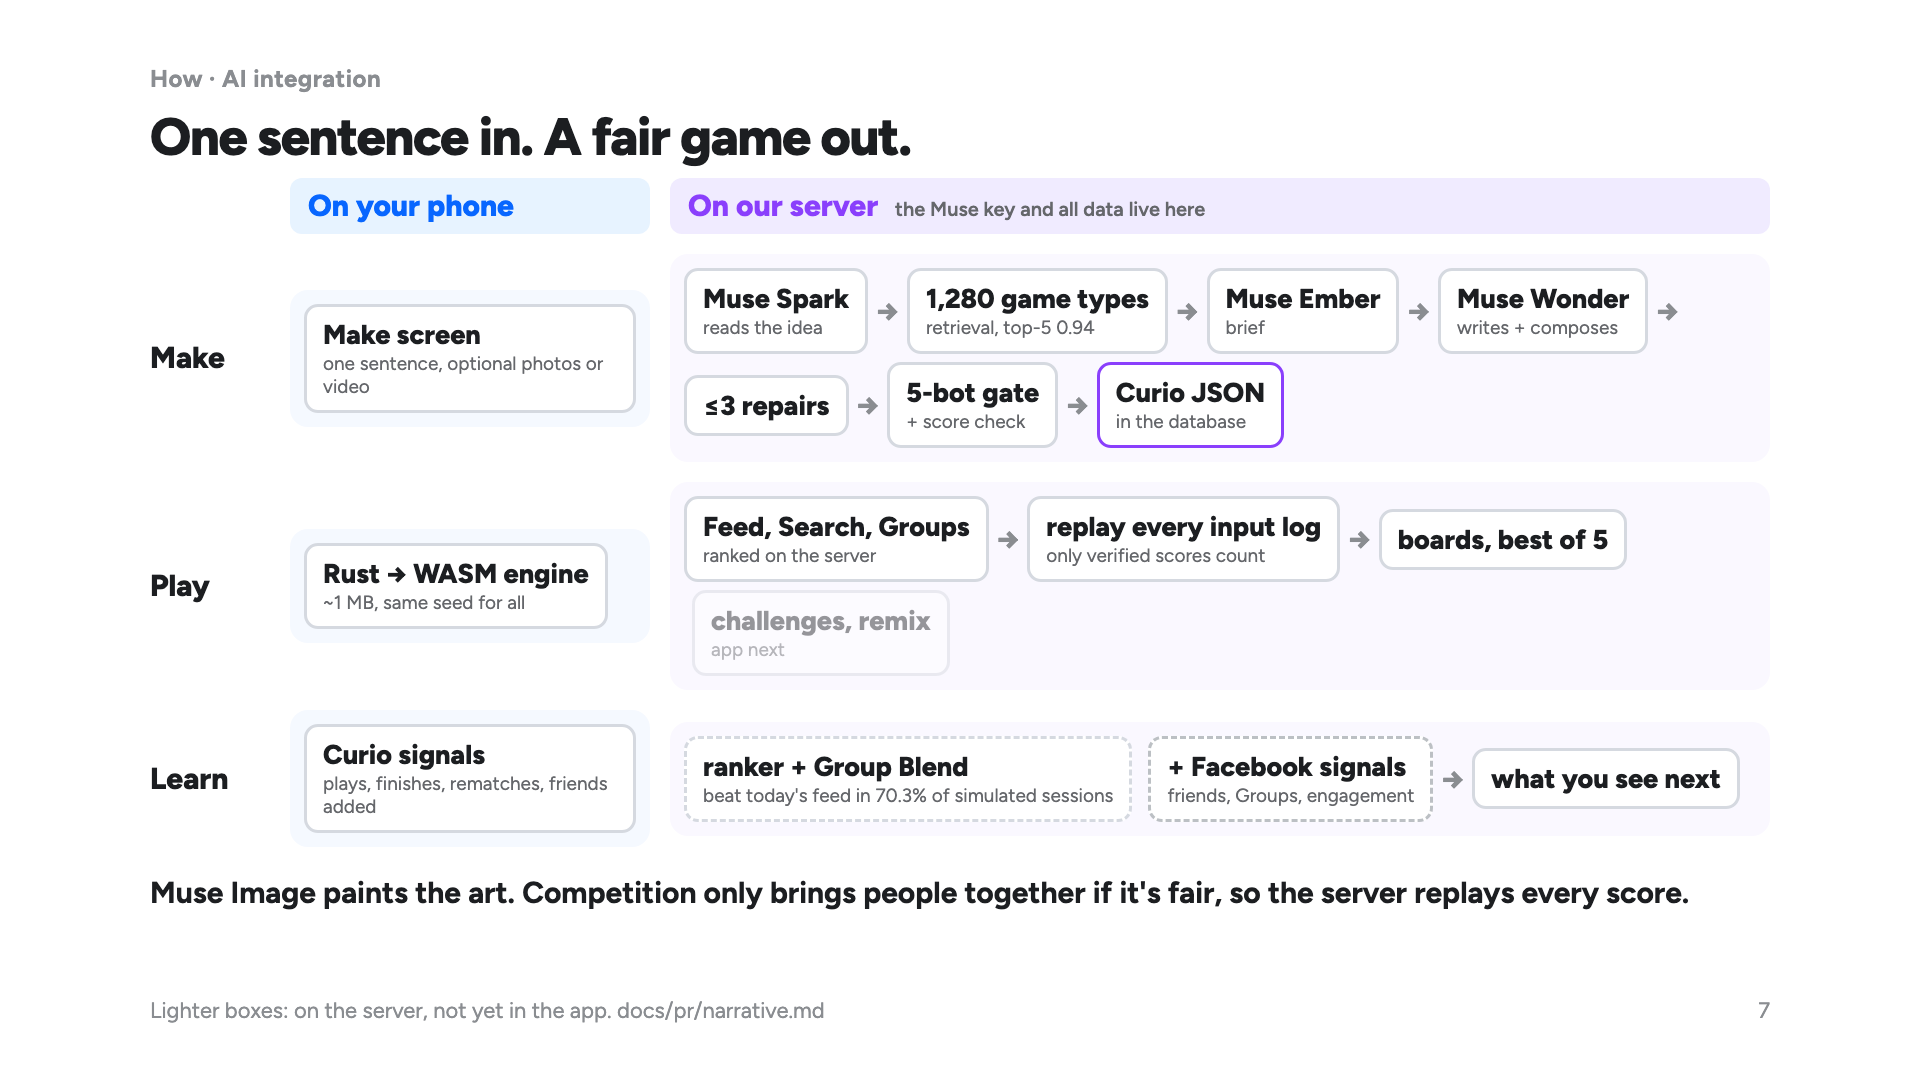
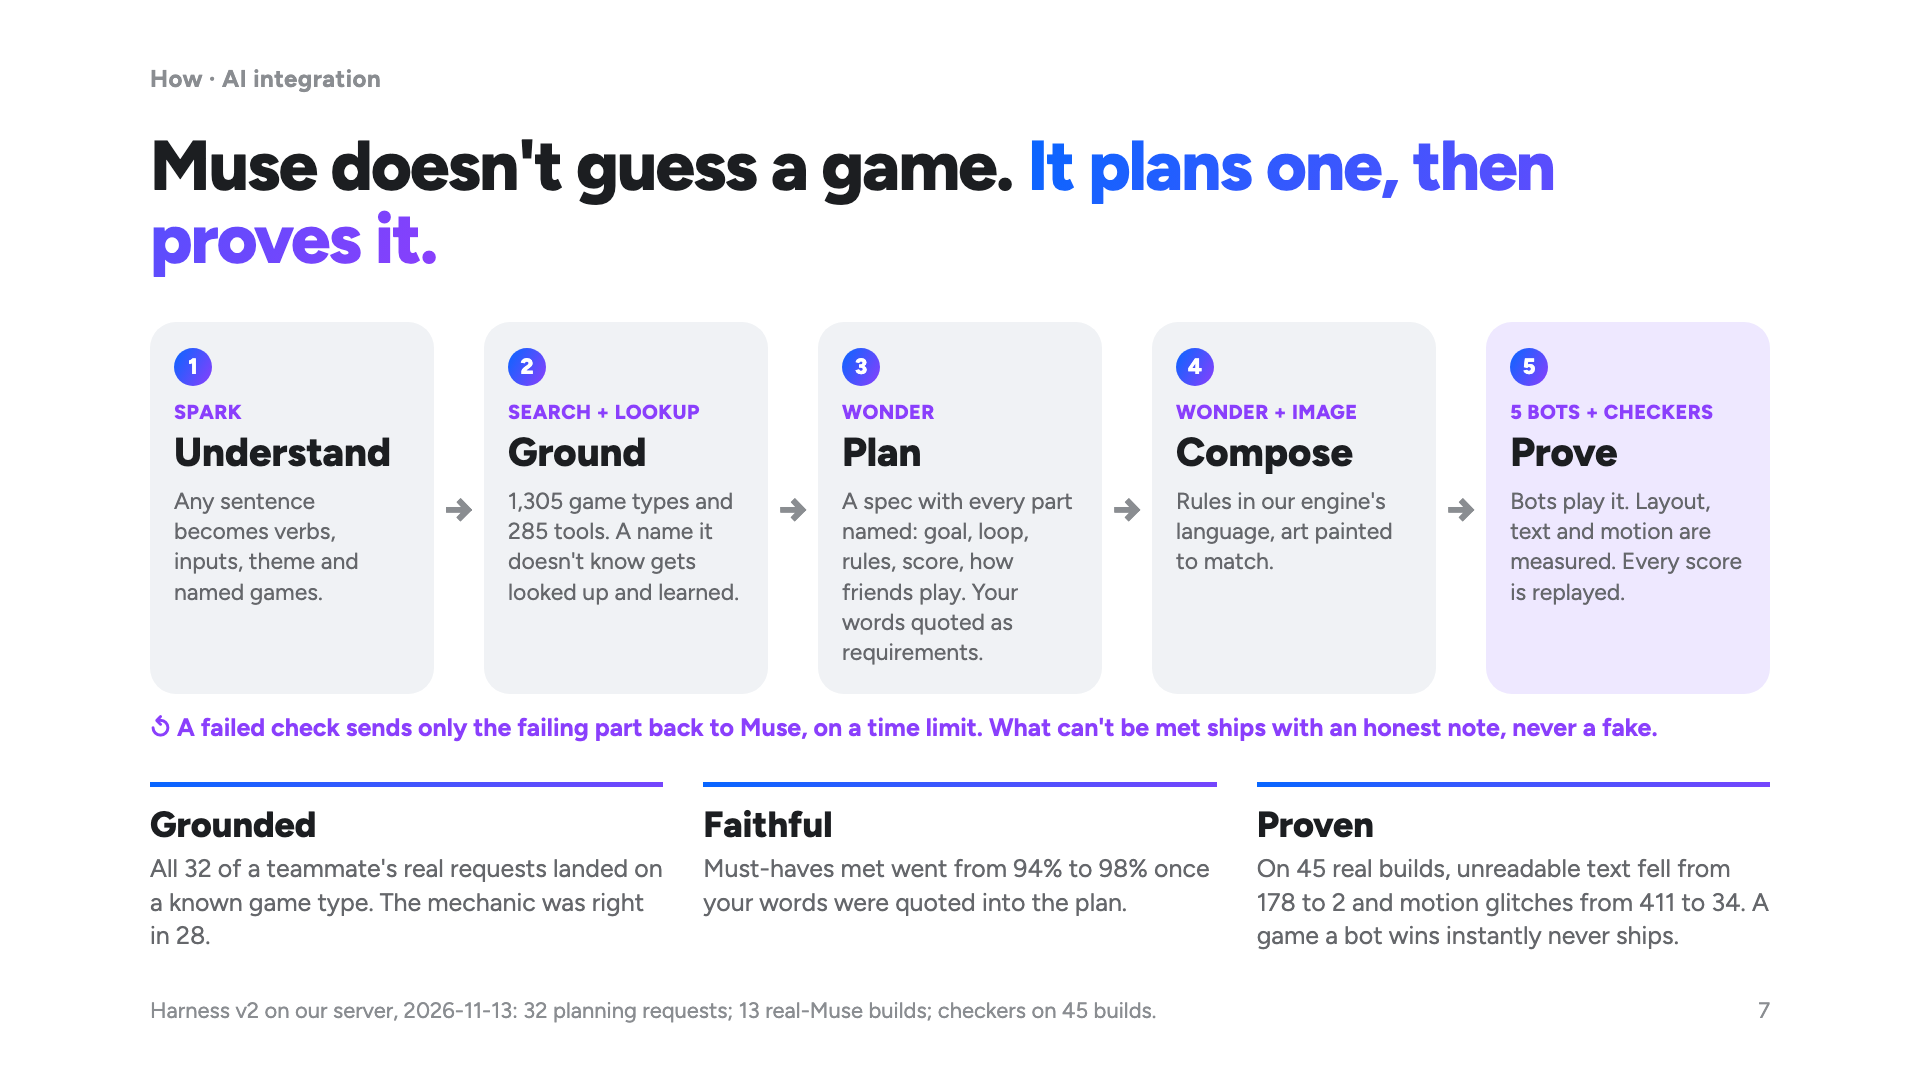
Slide 7: the harness as a plan-then-prove process diagram, with live numbers from Prod

diff --git a/docs/pr/slides/deck.html b/docs/pr/slides/deck.html
@@ -332,6 +332,20 @@ h2 { font-size: 96px; line-height: 1.04; font-weight: 800; letter-spacing: -.025
 .bpic.two { width: 760px; display: flex; flex-direction: column; flex: none; } .bridge .btxt { flex: 1; min-width: 0; } .bridge .btxt h2 { font-size: 78px; } .bq { white-space: nowrap; } .bridge .brow { gap: 70px; } .pair { display: flex; align-items: center; gap: 18px; }
 .pair figure { margin: 0; } .pair .cshot { width: 330px; height: 600px; border-radius: 30px; } .pair .cshot.lb { object-position: top; object-fit: cover; } .pair figure { width: 330px; }
 .pair figcaption { font-size: 24px; font-weight: 700; margin-top: 14px; color: var(--ink); } .parr { font-size: 56px; font-weight: 800; color: var(--muted); }
+.hxh { font-size: 70px; margin-top: 10px; }
+.hxflow { display: flex; align-items: stretch; gap: 10px; margin-top: 46px; }
+.hxs { flex: 1; background: var(--soft); border-radius: 26px; padding: 26px 24px; position: relative; }
+.hxs i { font-style: normal; font-weight: 800; font-size: 22px; color: #fff; background: var(--grad); border-radius: 50%; width: 38px; height: 38px; display: inline-flex; align-items: center; justify-content: center; }
+.hxs em { display: block; font-style: normal; font-size: 20px; font-weight: 800; color: var(--violet); margin-top: 14px; letter-spacing: .02em; text-transform: uppercase; }
+.hxs b { display: block; font-size: 40px; font-weight: 800; margin-top: 4px; }
+.hxs p { font-size: 23px; line-height: 1.32; color: var(--sub); margin-top: 10px; }
+.hxs.prove { background: #EEE8FF; }
+.hxa { align-self: center; font-size: 40px; font-weight: 800; color: var(--muted); }
+.hxloop { margin-top: 18px; font-size: 25px; font-weight: 700; color: var(--violet); }
+.hxval { display: grid; grid-template-columns: repeat(3, 1fr); gap: 40px; margin-top: 40px; }
+.hxval div { border-top: 5px solid; border-image: var(--grad) 1; padding-top: 16px; }
+.hxval b { display: block; font-size: 36px; font-weight: 800; }
+.hxval span { display: block; font-size: 25px; line-height: 1.35; color: var(--sub); margin-top: 6px; }
 </style>
 </head>
 <body>
@@ -438,23 +452,27 @@ h2 { font-size: 96px; line-height: 1.04; font-weight: 800; letter-spacing: -.025
   <div class="foot"><span>Real screens from the app. Facebook's Instant Games reached 20B+ sessions, and every one was made by a developer [34][35]. Muse removes that bottleneck.</span><span class="pg"></span></div>
 </section>
 
-<section class="slide stack">
+<section class="slide hx">
   <div class="label">How · AI integration</div>
-  <h2 class="sth">One sentence in. A fair game out.</h2>
-  <div class="lanes">
-    <div class="lh ph">On your phone</div><div class="lh sv">On our server <small>the Muse key and all data live here</small></div>
+  <h2 class="hxh">Muse doesn't guess a game. <span class="grad">It plans one, then proves it.</span></h2>
+  <div class="hxflow">
+    <div class="hxs"><i>1</i><em>Spark</em><b>Understand</b><p>Any sentence becomes verbs, inputs, theme and named games.</p></div>
+    <div class="hxa">→</div>
+    <div class="hxs"><i>2</i><em>Search + lookup</em><b>Ground</b><p>1,305 game types and 285 tools. A name it doesn't know gets looked up and learned.</p></div>
+    <div class="hxa">→</div>
+    <div class="hxs"><i>3</i><em>Wonder</em><b>Plan</b><p>A spec with every part named: goal, loop, rules, score, how friends play. Your words quoted as requirements.</p></div>
+    <div class="hxa">→</div>
+    <div class="hxs"><i>4</i><em>Wonder + Image</em><b>Compose</b><p>Rules in our engine's language, art painted to match.</p></div>
+    <div class="hxa">→</div>
+    <div class="hxs prove"><i>5</i><em>5 bots + checkers</em><b>Prove</b><p>Bots play it. Layout, text and motion are measured. Every score is replayed.</p></div>
   </div>
-  <div class="row"><div class="rl">Make</div>
-    <div class="cellp"><div class="bx "><b>Make screen</b><small>one sentence, optional photos or video</small></div></div>
-    <div class="cells"><div class="bx "><b>Muse Spark</b><small>reads the idea</small></div><i>→</i><div class="bx "><b>1,280 game types</b><small>retrieval, top-5 0.94</small></div><i>→</i><div class="bx "><b>Muse Ember</b><small>brief</small></div><i>→</i><div class="bx "><b>Muse Wonder</b><small>writes + composes</small></div><i>→</i><div class="bx "><b>≤3 repairs</b></div><i>→</i><div class="bx "><b>5-bot gate</b><small>+ score check</small></div><i>→</i><div class="bx db"><b>Curio JSON</b><small>in the database</small></div></div></div>
-  <div class="row"><div class="rl">Play</div>
-    <div class="cellp"><div class="bx "><b>Rust → WASM engine</b><small>~1 MB, same seed for all</small></div></div>
-    <div class="cells"><div class="bx "><b>Feed, Search, Groups</b><small>ranked on the server</small></div><i>→</i><div class="bx "><b>replay every input log</b><small>only verified scores count</small></div><i>→</i><div class="bx "><b>boards, best of 5</b></div><div class="bx lite"><b>challenges, remix</b><small>app next</small></div></div></div>
-  <div class="row"><div class="rl">Learn</div>
-    <div class="cellp"><div class="bx "><b>Curio signals</b><small>plays, finishes, rematches, friends added</small></div></div>
-    <div class="cells"><div class="bx sim"><b>ranker + Group Blend</b><small>beat today's feed in 70.3% of simulated sessions</small></div><div class="bx lite2"><b>+ Facebook signals</b><small>friends, Groups, engagement</small></div><i>→</i><div class="bx "><b>what you see next</b></div></div></div>
-  <div class="scap2">Muse Image paints the art. Competition only brings people together if it's fair, so the server replays every score.</div>
-  <div class="foot"><span>Lighter boxes: on the server, not yet in the app. docs/pr/narrative.md</span><span class="pg"></span></div>
+  <div class="hxloop"><span>↺ A failed check sends only the failing part back to Muse, on a time limit. What can't be met ships with an honest note, never a fake.</span></div>
+  <div class="hxval">
+    <div><b>Grounded</b><span>All 32 of a teammate's real requests landed on a known game type. The mechanic was right in 28.</span></div>
+    <div><b>Faithful</b><span>Must-haves met went from 94% to 98% once your words were quoted into the plan.</span></div>
+    <div><b>Proven</b><span>On 45 real builds, unreadable text fell from 178 to 2 and motion glitches from 411 to 34. A game a bot wins instantly never ships.</span></div>
+  </div>
+  <div class="foot"><span>Harness v2 on our server, 2026-11-13: 32 planning requests; 13 real-Muse builds; checkers on 45 builds.</span><span class="pg"></span></div>
 </section>
 
 <section class="slide collab">

diff --git a/docs/pr/slides/notes.md b/docs/pr/slides/notes.md
@@ -50,7 +50,7 @@ And on Reels, short-form is becoming something you play: pause it perfectly, pla
 So here's our answer. A Curio turns "tell me your score" into a real Group score. It's a ritual you share: same Curio, same seed, one board. It meets a need: a stranger's score next to yours is an introduction. And anyone can make one from a sentence. Mine is building now.
 
 ## 7
-Under the hood: on the phone, you type an idea, maybe add photos. On our server, which holds the Muse key and all the data, Muse Spark reads it, we ground it in 1,280 game types, Ember writes the brief, Wonder writes the game, up to three repair rounds, and five bots play it before anyone else does. The Rust engine plays the same JSON the same way for everyone, so the server replays every score: competition only brings people together if it's fair. And what you play, finish and rematch joins Facebook's own signals in ranking what you see next. *(Demo 1, 40 s, then Demo 2, 25 s.)*
+Here's how Muse makes a game, and why it isn't one giant prompt. Spark reads your sentence. We ground it in about 1,300 game types and 285 tools, and if you name a game it doesn't know, it looks it up and learns it. Wonder writes a plan with every part named, the goal, the loop, the score, how friends play, and your exact words quoted as requirements. Then it composes, and five bots play it before anyone else. If a check fails, only that part gets repaired. Checkers measure the layout, the text and the motion, and every score is replayed on our server. When a format let a bot win instantly, the gate rejected it three times out of three. And every check is a failure class we keep, so fixing one game fixes every game after it. *(Demo 1, 40 s: the finished Curio. Then Demo 2, 25 s: the feed, where what you play, finish and rematch joins Facebook's own signals in what you see next.)*
 
 ## 8
 This is where it brings people closer. Against: best of 5 when you meet someone, a weekly Group board with Add friend, challenges, quiz nights. Together: Group Blend, sounds, making one together, remixing with credit. Boards only show Groups you share, seeds are fair, everything is opt-in. *(Demo 3, 30 s.)*
